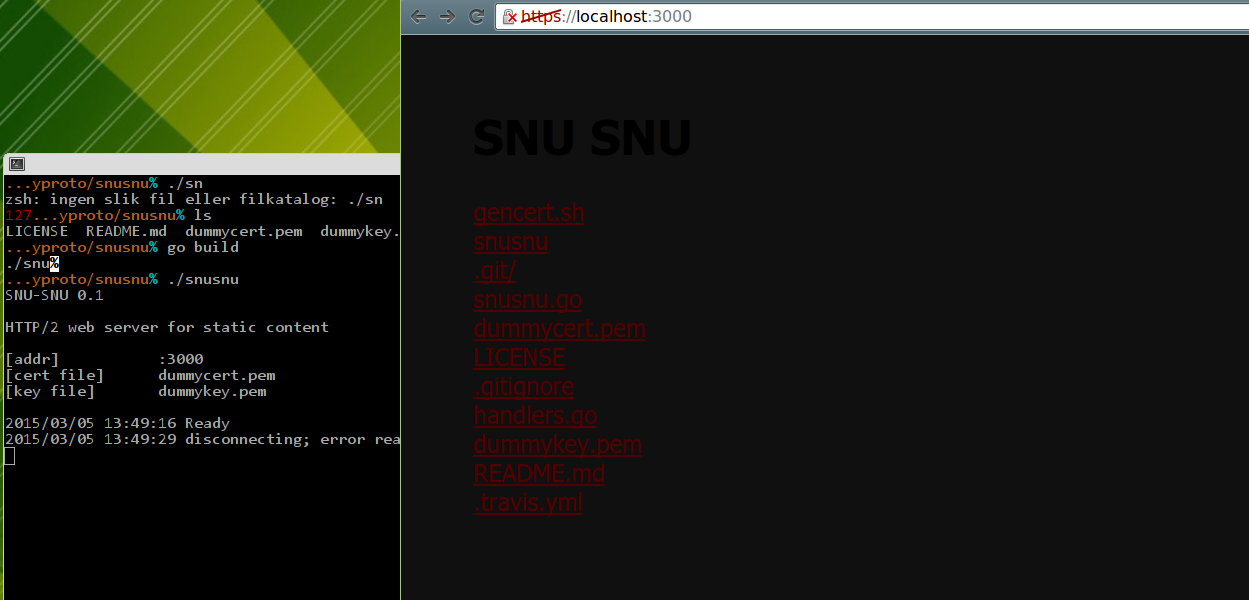
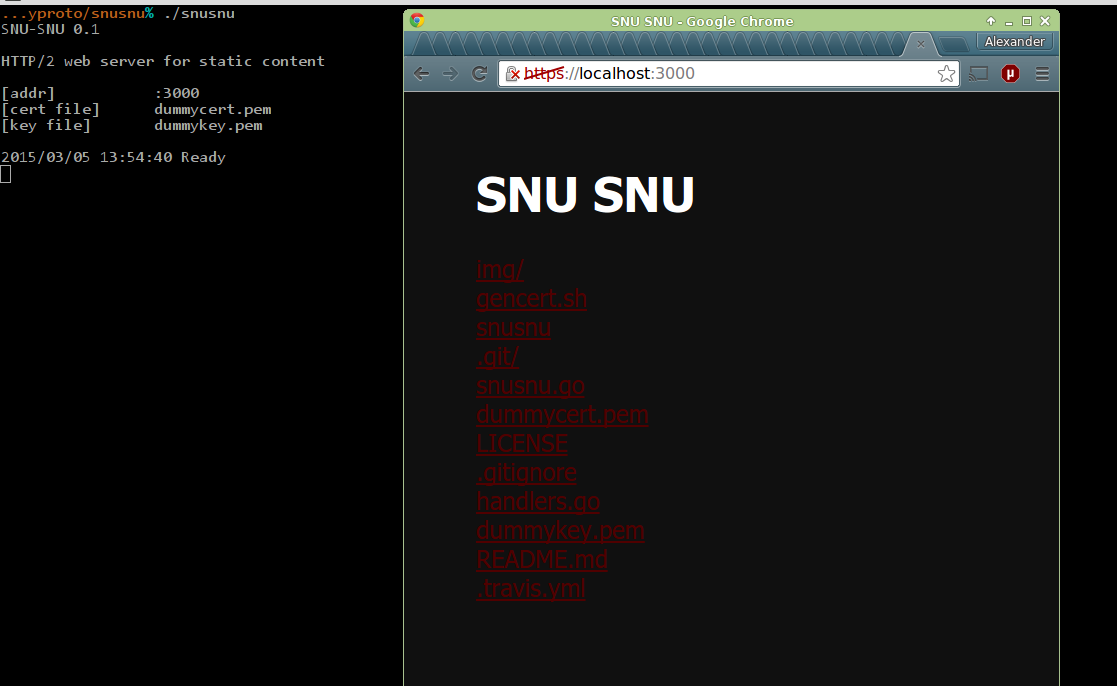
Better screenshot

Changed region(s): [[0.0, 0.0, 1.0, 1.0], [0.3653, 0.24, 0.6392, 0.9]]

diff --git a/handlers.go b/handlers.go
@@ -95,7 +95,7 @@ func registerIndexPage(mux *http.ServeMux, urlpath string, served []string) {
 	}
 	handled = append(handled, urlpath)
 	mux.HandleFunc(urlpath, func(w http.ResponseWriter, req *http.Request) {
-		style := "body { background-color: #101010; text: #c0c0c0; font-family: tahoma,verdana,arial; margin: 3em; font-size: 1.5em; } a { color: #500000; } a:hover { color: #a00000; } a:active { color: #a0a0a0; }"
+		style := "body { background-color: #101010; color: #c0c0c0; font-family: tahoma,verdana,arial; margin: 3em; font-size: 1.5em; } a { color: #500000; } a:hover { color: #a00000; } a:active { color: #a0a0a0; } h1 { color: white; }"
 		fmt.Fprint(w, "<!doctype html><html><head><title>SNU SNU</title><style>"+style+"</style><head><body><h1>SNU SNU</h1>")
 		for _, filename := range served {
 			url := urlpath + filename
